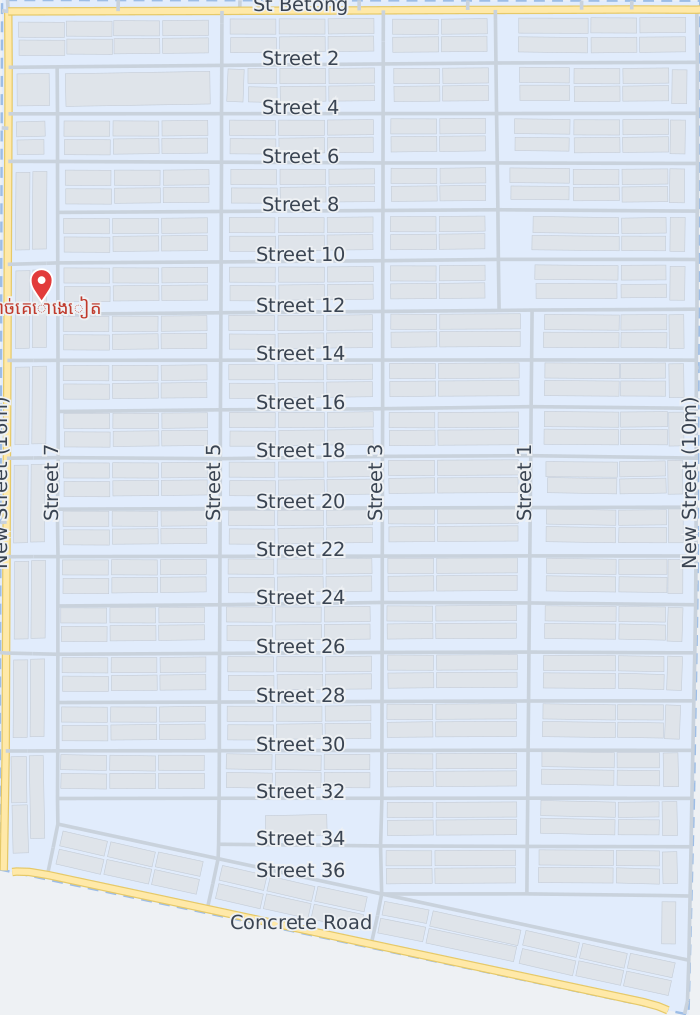
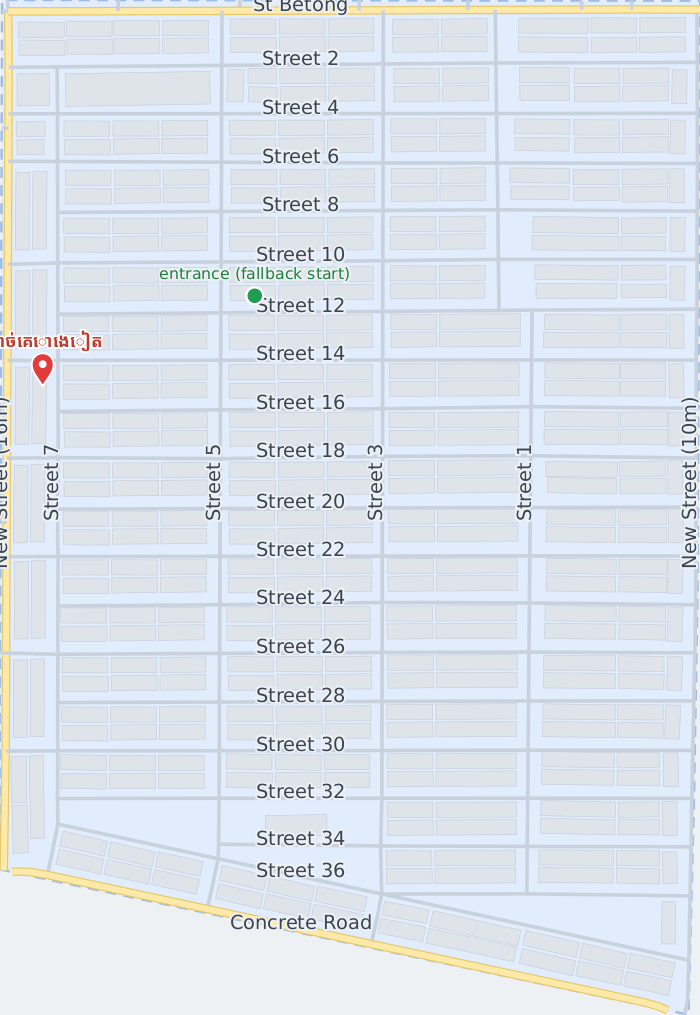
Update pin and fallback-entrance coordinates
សាច់គោងៀត -> 11.570834, 104.816734
Fallback entrance -> 11.571888, 104.818347

Changed region(s): [[0.0, 0.2443, 0.15, 0.397], [0.24, 0.2443, 0.51, 0.3054]]

diff --git a/index.html b/index.html
@@ -441,11 +441,10 @@ function updatePlaceScale(){ // keep pins a constant on-screen size
 /* ---- predefined destinations ----------------------------------------- */
 /* Only these show a red pin. Add more as {name, lng, lat}. lng first, then lat. */
 const PLACES=[
-  {name:"សាច់គោងៀត", lng:104.81659372797475, lat:11.57151299561483},
+  {name:"សាច់គោងៀត", lng:104.816734, lat:11.570834},
 ];
 // When the user is OUTSIDE the borey (or has no GPS), routes start here instead.
-// 11°34'17.5"N 104°48'59.7"E
-const FALLBACK_START=[104.816583,11.571528];
+const FALLBACK_START=[104.818347,11.571888];
 function insideBorey(ll){ // point-in-polygon against the borey boundary
   const poly=DATA.borey; if(!poly||!ll)return true;
   let x=ll[0],y=ll[1],inside=false;
